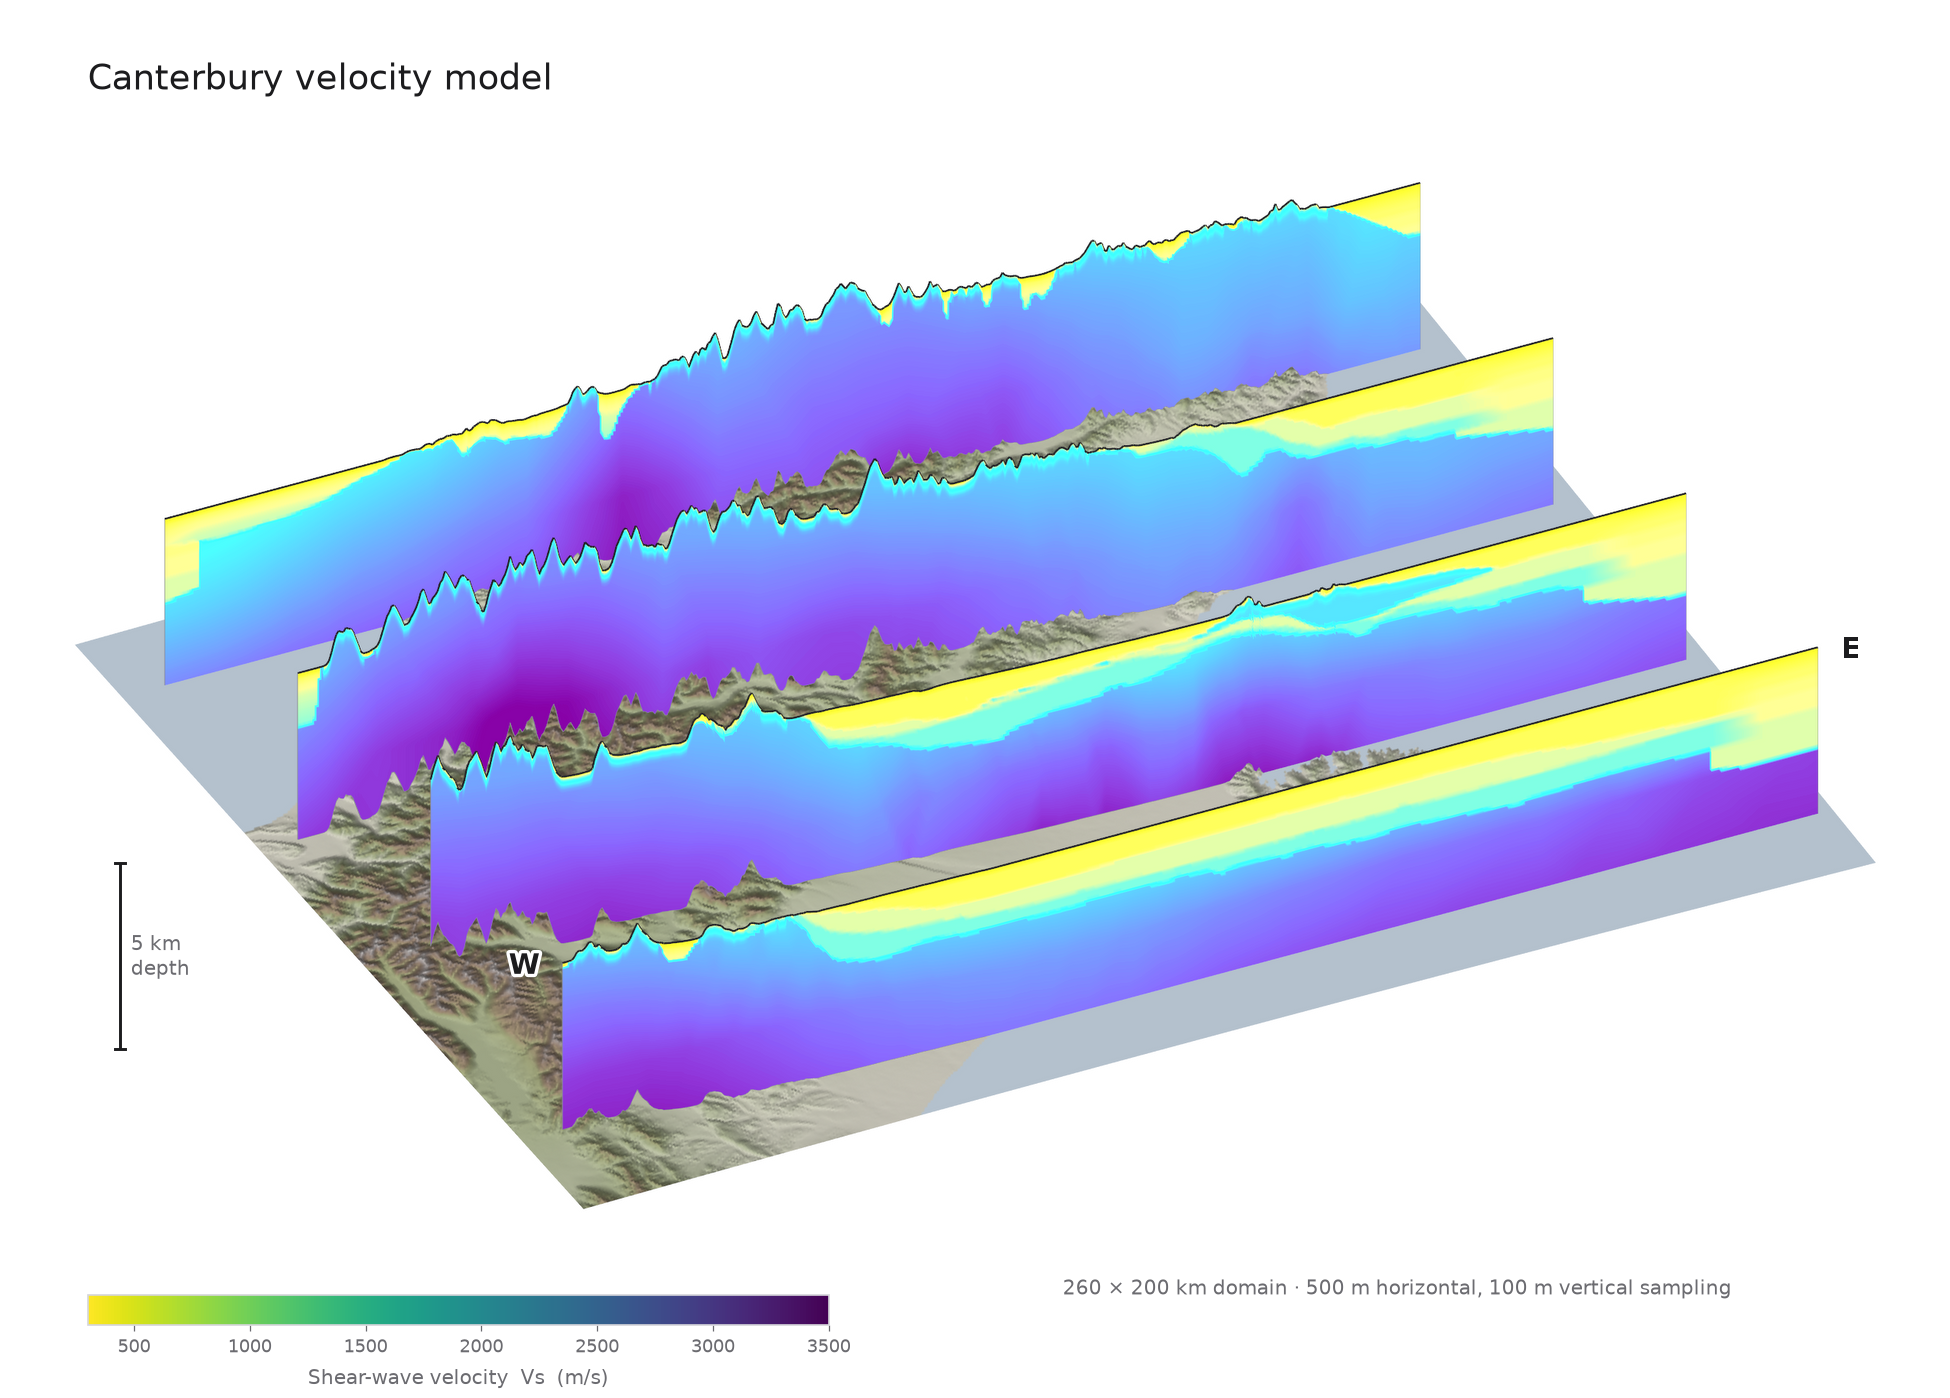
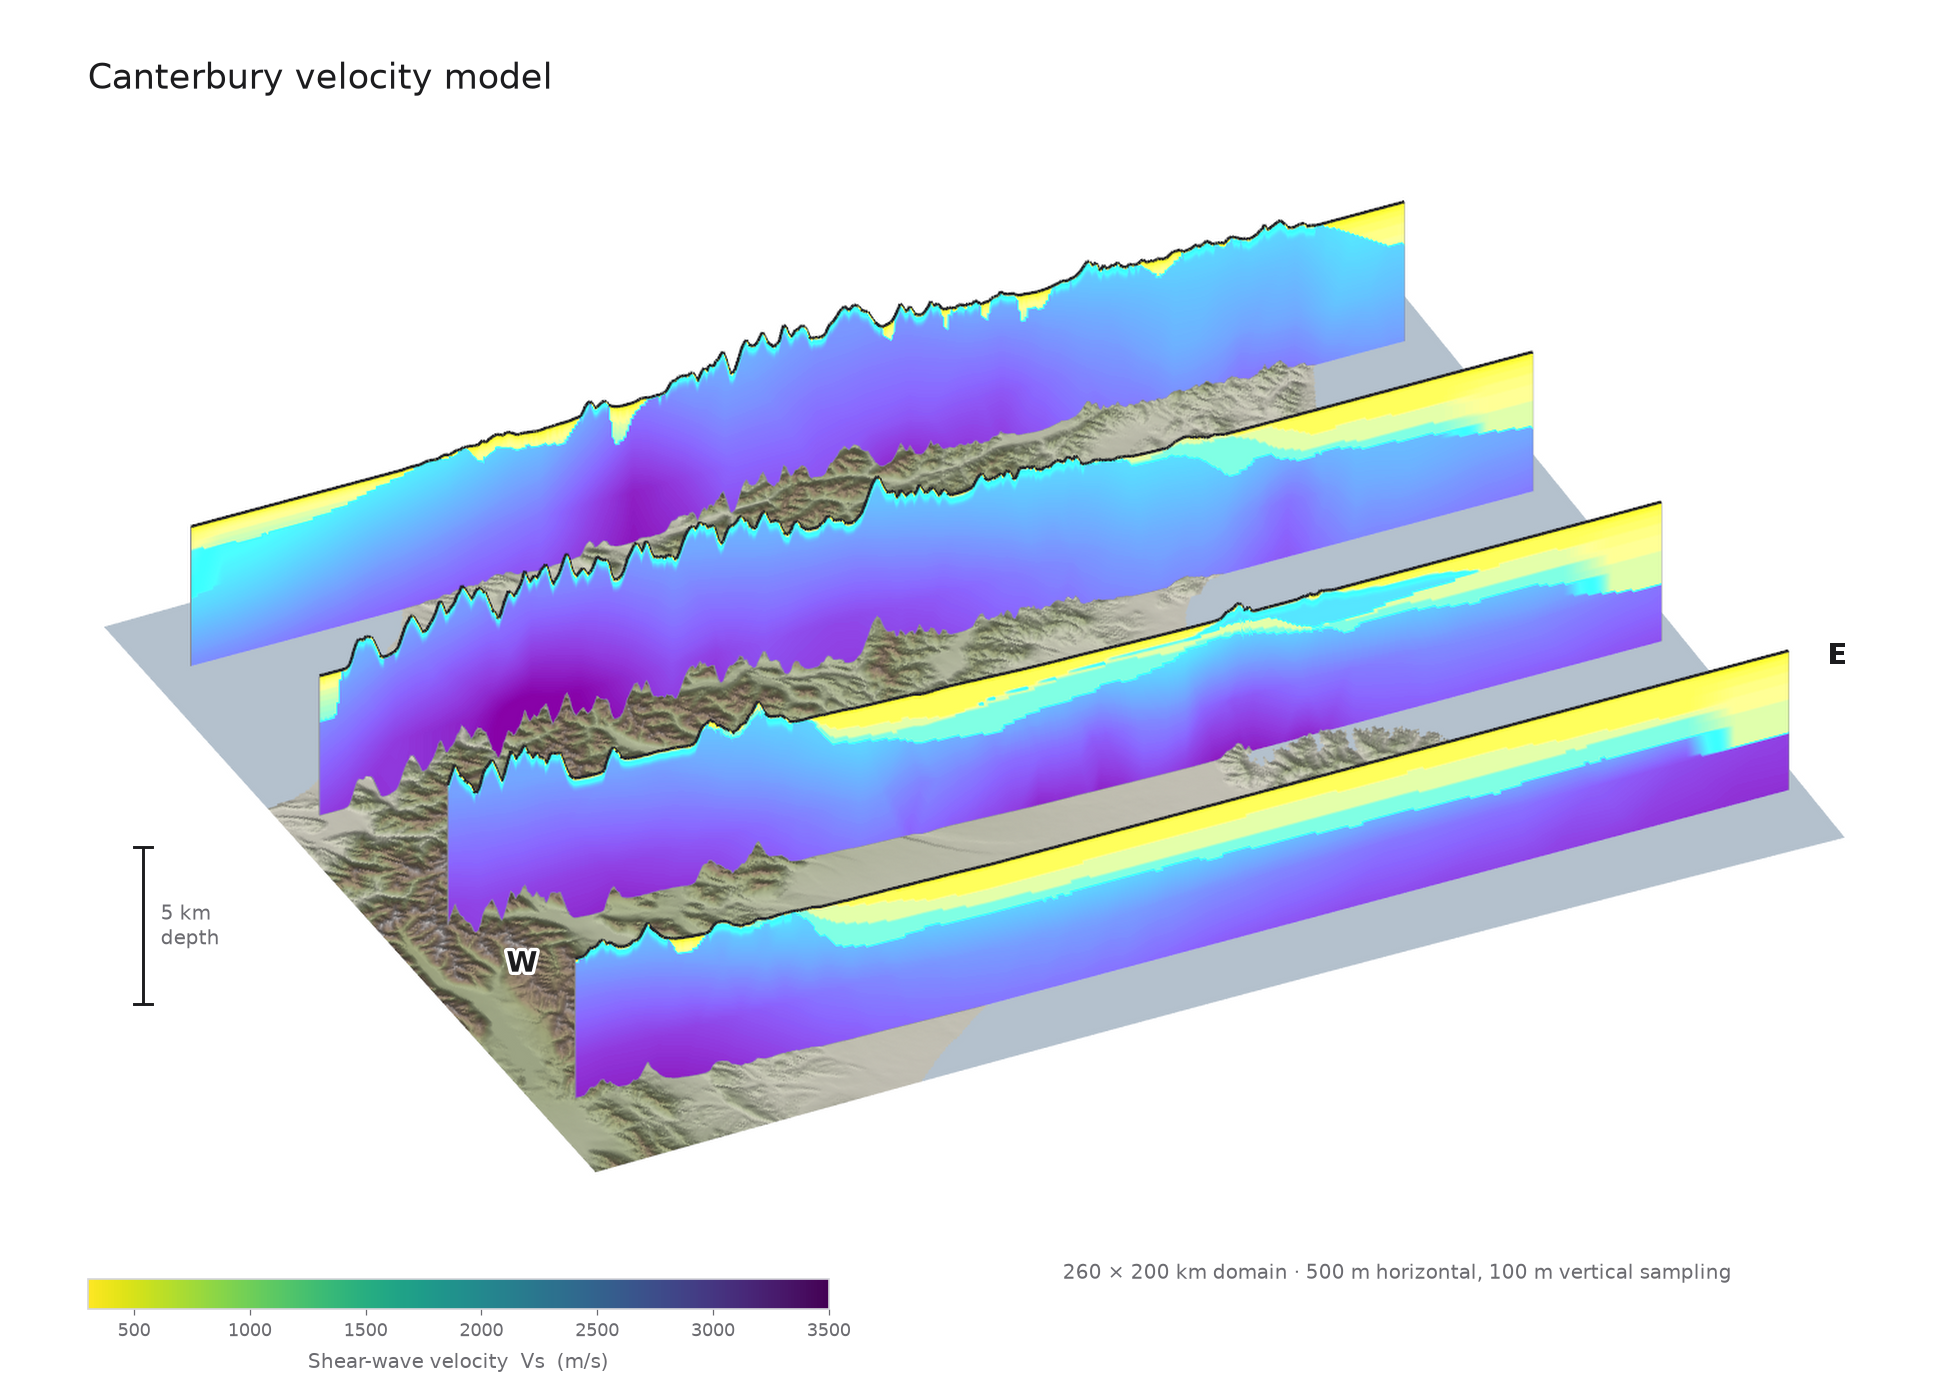
offshore basin updates

Changed region(s): [[0.0308, 0.1245, 0.9538, 0.8718], [0.0615, 0.6539, 0.1231, 0.7161]]

diff --git a/nzcvm/layers/offshore.py b/nzcvm/layers/offshore.py
@@ -183,17 +183,14 @@ class OffshoreBasinLayer(Layer[OffshoreBasinConfig], config_cls=OffshoreBasinCon
             logger.debug("Chunk below basin surface, skipping calculation.")
             return self.next_layer(grid, model_range=model_range)
 
-        # A basin that reaches the surface owns the whole column beneath it, so
-        # the offshore profile is suppressed there. This mirrors the Ely GTL
-        # taper, and restores the lateral basin veto the pre-nzcvm NZVM code
-        # applied via `in_any_basin_lat_lon`.
         surface_layer = grid_like_at_depth(grid, 0.0)
-        basin_at_surface = self.next_layer(
-            surface_layer, model_range=ModelRange.BASINS
-        ).squeeze()
-        in_basin = xr.apply_ufunc(np.isclose, basin_at_surface.alpha, 1.0)
+        footprint = (
+            self.next_layer(surface_layer, model_range=ModelRange.BASINS)
+            .squeeze()
+            .alpha
+        )
 
-        if in_basin.all():
+        if np.allclose(footprint, 1.0):
             logger.debug(
                 "Chunk inside basin at surface, skipping offshore calculation."
             )
@@ -208,11 +205,20 @@ class OffshoreBasinLayer(Layer[OffshoreBasinConfig], config_cls=OffshoreBasinCon
         background = self.next_layer(grid, model_range=model_range)
         offshore_qualities = self.model.qualities(grid.depth)
 
-        # In-place update: write blend(basins, offshore) into background only
-        # where the point is offshore and above the modelled basin surface.
-        # Equivalent to xr.where(mask, blend(basins, offshore), background) but
-        # avoids allocating a new result array.
-        mask = is_above_basin & is_offshore & ~in_basin
-        qualities.blend(basins, offshore_qualities, out=background, where=mask)
+        # How much basin was present at the surface but has faded out at this
+        # depth: 1 below a basin's base inside its footprint, 0 above the base
+        # and outside the footprint, and a ramp across the smoothing boundary.
+        # Used to cross-fade the basin with the offshore basin.
+        faded = (footprint - basins.alpha).clip(0.0, 1.0)
+        offshore_qualities[Component.ALPHA] = offshore_qualities.alpha * (1.0 - faded)
+
+        # Composite offshore over the background, then basins over the lot, only
+        # where the offshore body exists. The background already renders basins
+        # onto tomography, but wherever the basin is present the offshore is
+        # either occluded by it or opaque itself, so re-compositing the basin on
+        # top will not double count.
+        mask = (is_above_basin & is_offshore).values
+        qualities.blend(offshore_qualities, background, out=background, where=mask)
+        qualities.blend(basins, background, out=background, where=mask)
 
         return background
